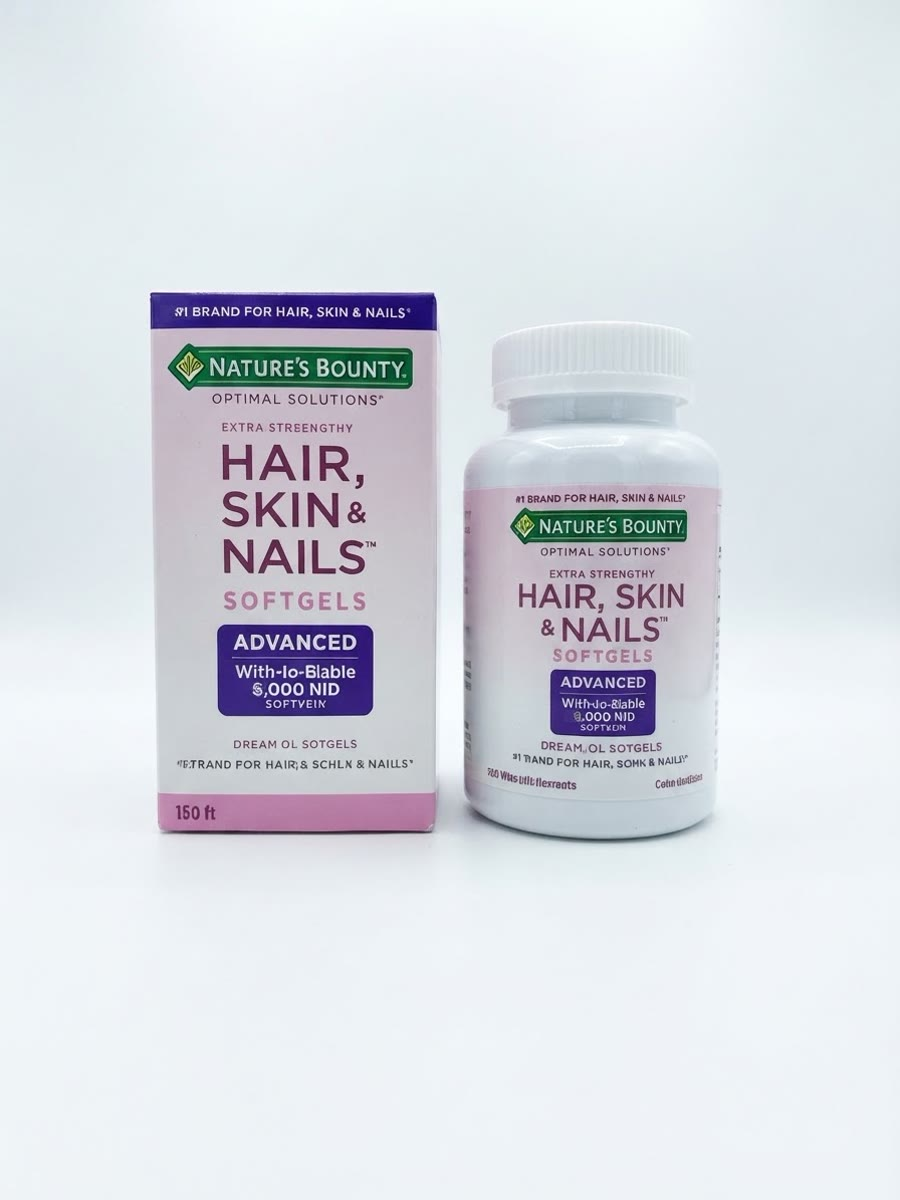
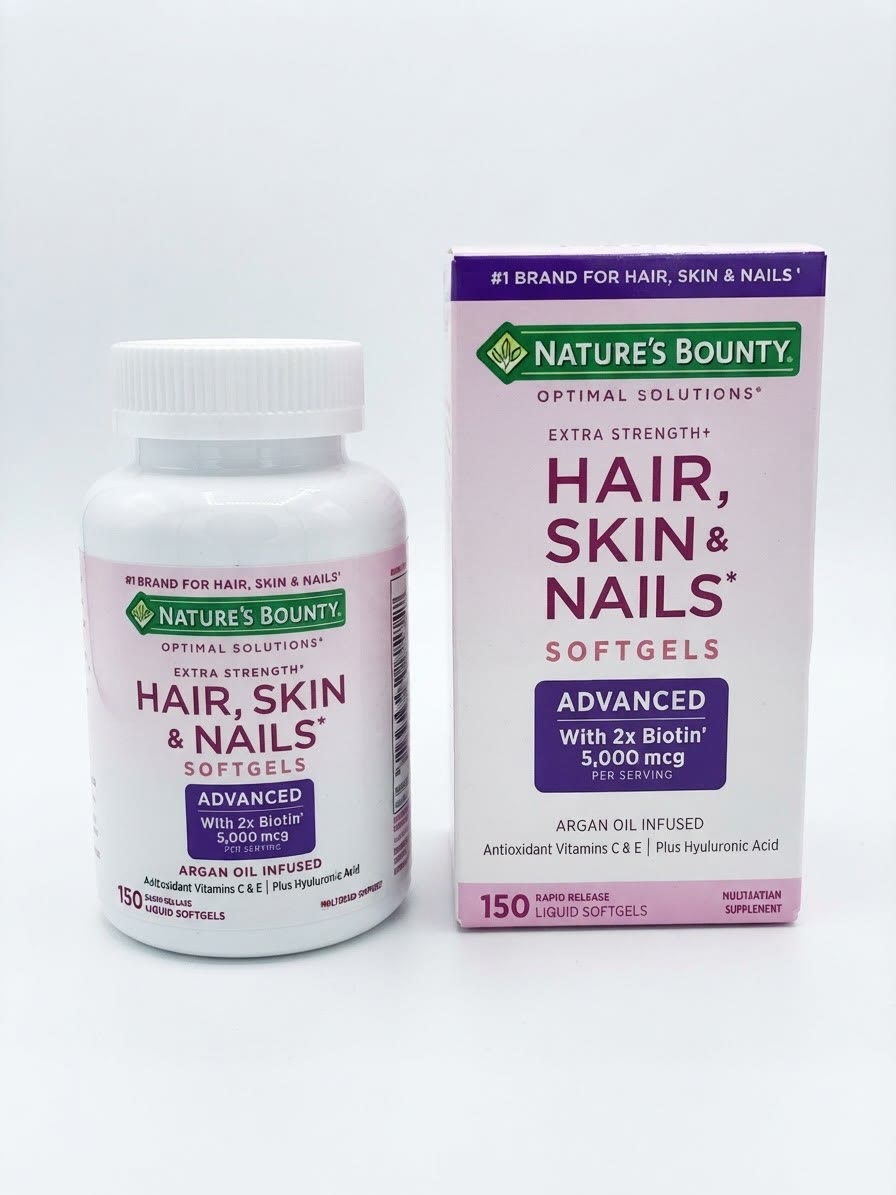
Cambiar foto de Nature's Bounty Hair Skin Nails por version con texto legible

diff --git a/index.html b/index.html
@@ -240,7 +240,7 @@
     <div class="product-card">
       <div class="product-img-wrap">
         <span class="badge">150 softgels · Biotina 5000 mcg</span>
-        <img src="images/natures-bounty-hair-skin-nails.jpg" alt="Nature's Bounty Optimal Solutions Hair, Skin &amp; Nails Extra Strength, 150 softgels" loading="lazy"/>
+        <img src="images/natures-bounty-hair-skin-nails.jpg?v=2" alt="Nature's Bounty Optimal Solutions Hair, Skin &amp; Nails Extra Strength, 150 softgels" loading="lazy"/>
       </div>
       <div class="product-info">
         <p class="product-name">Nature's Bounty Hair, Skin &amp; Nails</p>
